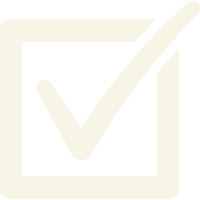
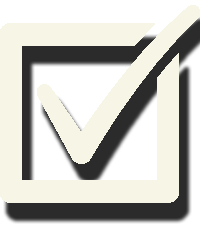
'image change'

diff --git a/client/src/navbar.css b/client/src/navbar.css
@@ -23,6 +23,9 @@
 
 .bikeContainer {
     width: 100%;
+    -webkit-box-shadow: 0px 4px 22px 2px rgba(0,0,0,0.59);
+    -moz-box-shadow: 0px 4px 22px 2px rgba(0,0,0,0.59);
+    -box-shadow: 0px 4px 22px 2px rgba(0,0,0,0.59);
 
 }
 
@@ -39,6 +42,7 @@
     margin-bottom: 150px;
     margin-top: 100px;
     width: 100%;
+    
 }
 
 p {
@@ -48,12 +52,12 @@ p {
 
 .main {
     background-color: #333A56;
-    
-    
+       
 }
 
 .uk-column-1-2 {
     background-color: #ececec;
+    
 }
 
 a {
@@ -61,6 +65,12 @@ a {
     text-shadow: none;
 }
 
+/* .uk-column-1-3 {
+    padding: 100px;
+    -webkit-box-shadow: 0px 4px 22px 2px rgba(0,0,0,0.59);
+    -moz-box-shadow: 0px 4px 22px 2px rgba(0,0,0,0.59);
+    -box-shadow: 0px 4px 22px 2px rgba(0,0,0,0.59);
+} */
 
 
 

diff --git a/client/src/components/NavImage.js b/client/src/components/NavImage.js
@@ -12,15 +12,18 @@ class NavImage extends Component {
 render() {
     return (
     <div className="main">
+      
     <div className = "bikeContainer">
       <img className = "cyclist" src={image} alt="image of cyclist"/>
      </div> 
-
+    
+      
     <div className="uk-position-medium uk-position-center-left uk-overlay uk-overlay-default">Create, organize, track, and complete errands fast and efficiently.
       <div className="uk-container">
         <a className="uk-button uk-button-default" href="/householdsignup/">CREATE ACCOUNT</a> <a className="uk-button uk-button-default" href="/signin/">LOGIN</a>  
       </div>
     </div>
+    
 
     <div className="iconContainer">
       <center><div className = "uk-column-1-3">
